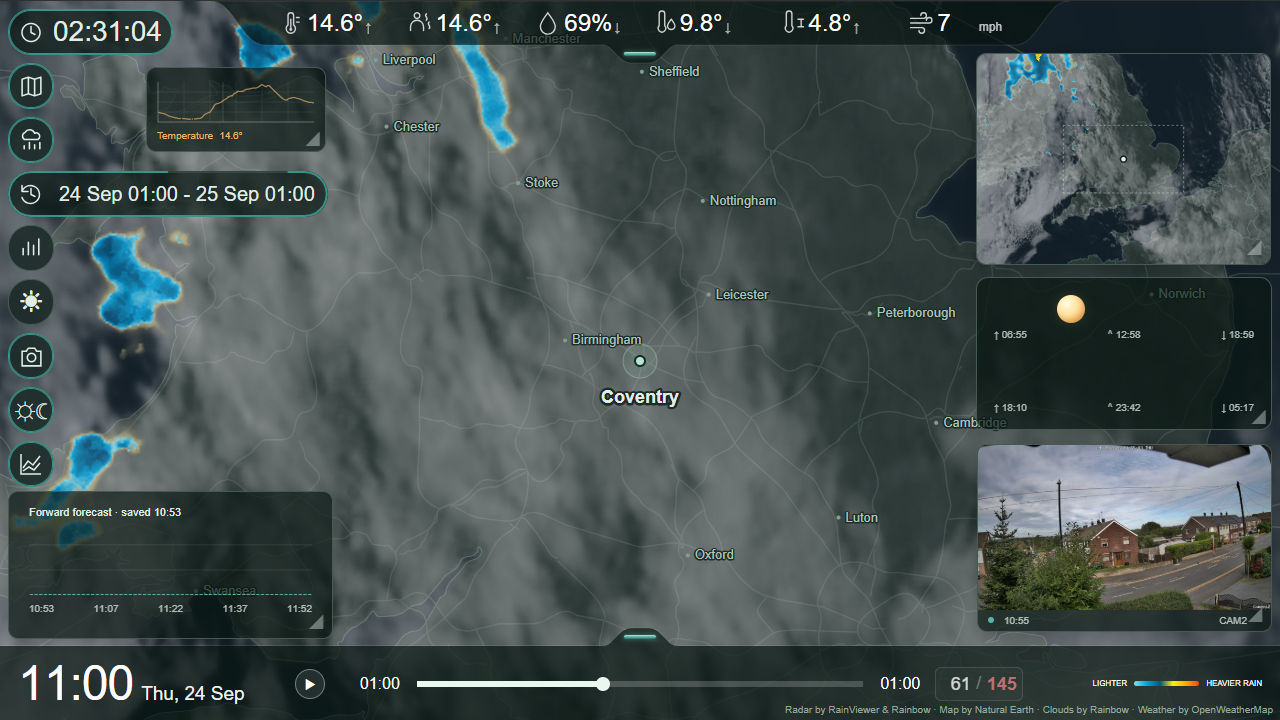
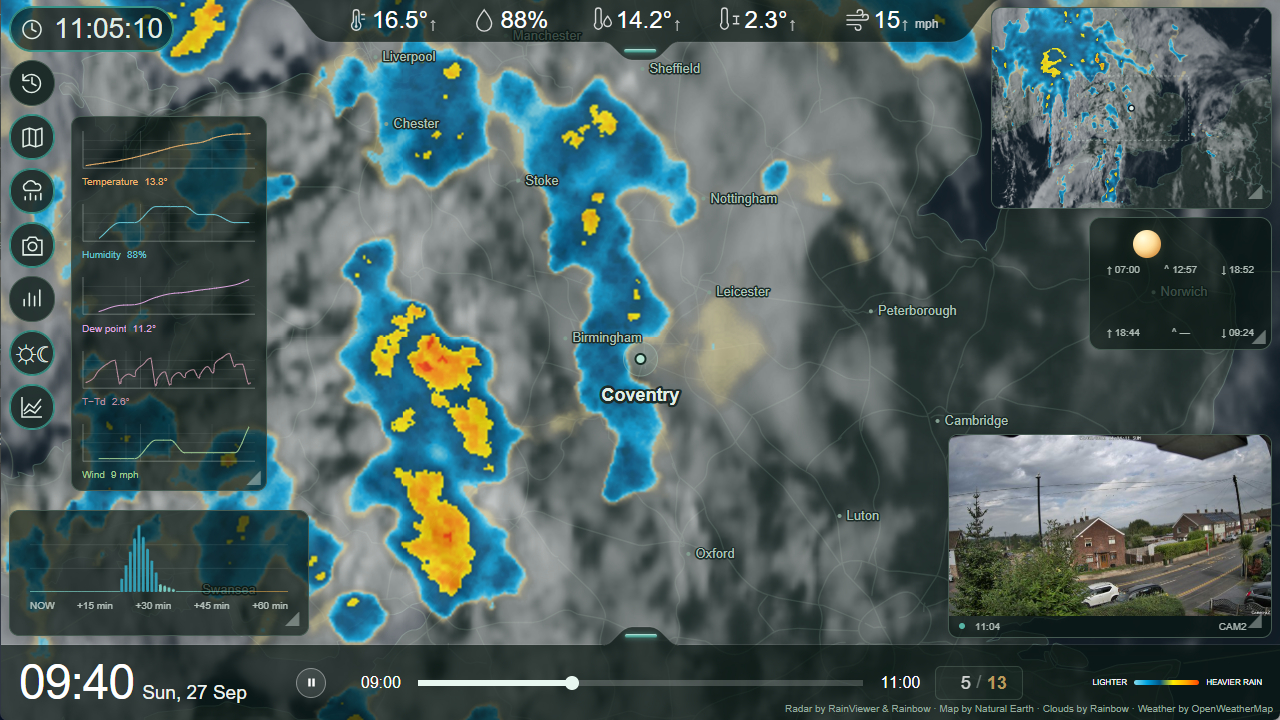
Refresh README with live rain and cloud playback

diff --git a/README.md b/README.md
@@ -2,9 +2,9 @@
 
 A dedicated rain-radar screen for your home. Animate recent rain, see where it has been moving, and glance at optional current temperature and wind readings.
 
-![Historical rain radar centred on Coventry](docs/images/radar-preview-20260916-2147.gif)
+![Rain and cloud playback centred on Coventry](docs/images/radar-preview-20260927.gif)
 
-*Recorded on 16 September 2026 in v0.3.0: 13 radar frames over Coventry, spanning 19:40–21:40 BST, with Overview and Rain forecast open. Historical demonstration, not live conditions; weather readings and Rain forecast reflect capture time. Radar by [RainViewer](https://www.rainviewer.com/), basemap by [Natural Earth](https://www.naturalearthdata.com/), weather by [OpenWeather](https://openweathermap.org/). [Static preview](docs/images/radar-preview-20260916-2147.png).*
+*Recorded on 27 September 2026 in v0.8.0: 13 frames spanning 09:00–11:00 BST, with rain and clouds on both maps, weather charts, Rain forecast, Sun/Moon and Camera open. A recording of Live playback, not current conditions; weather readings, Rain forecast and Camera reflect capture time. Radar by [RainViewer](https://www.rainviewer.com/) and [Rainbow](https://rainbow.ai/), clouds by Rainbow, basemap by [Natural Earth](https://www.naturalearthdata.com/), weather by [OpenWeather](https://openweathermap.org/). [Static preview](docs/images/pi-rain-radar.jpg).*
 
 ## Status
 
